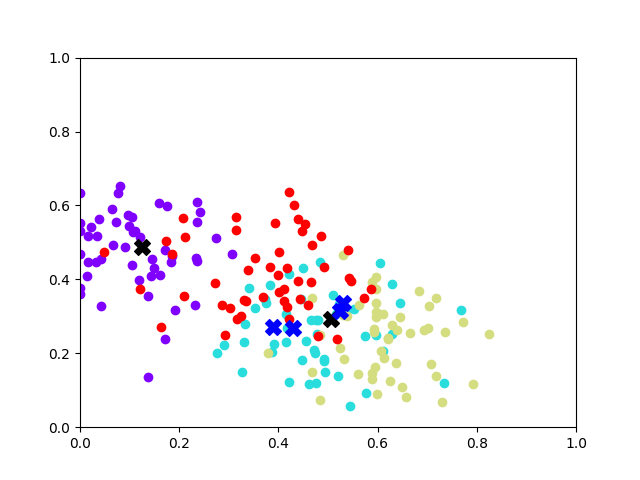
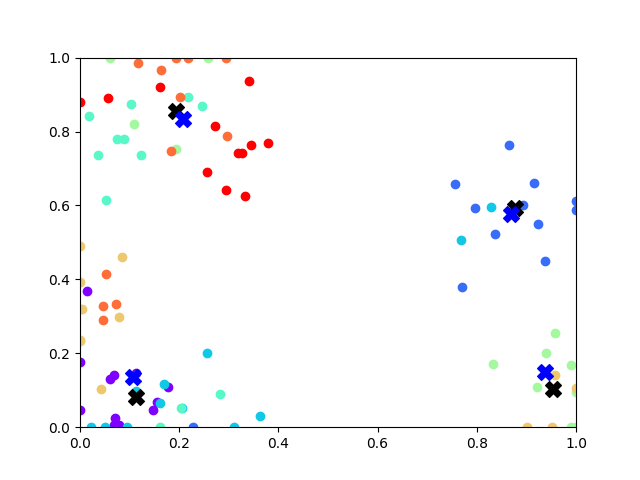
update the best showcase figure

diff --git a/main.py b/main.py
@@ -61,10 +61,11 @@ class meanshift(object):
 
 
 if __name__ == '__main__':
-    n_point = 200
+    n_point = 100
+    n_dust = 8
     radius = 0.1
     point_array = point_gen([0.0,1.0], [0.0,1.0], n_centers = 8, n_points = n_point, radius = radius, if_plot = True)
-    ms = meanshift(point_array, radius)
+    ms = meanshift(point_array, radius, n_dust)
     start_time = time.time()
     plain_centroid = ms.fit()
     print("time cost is ", time.time() - start_time)
